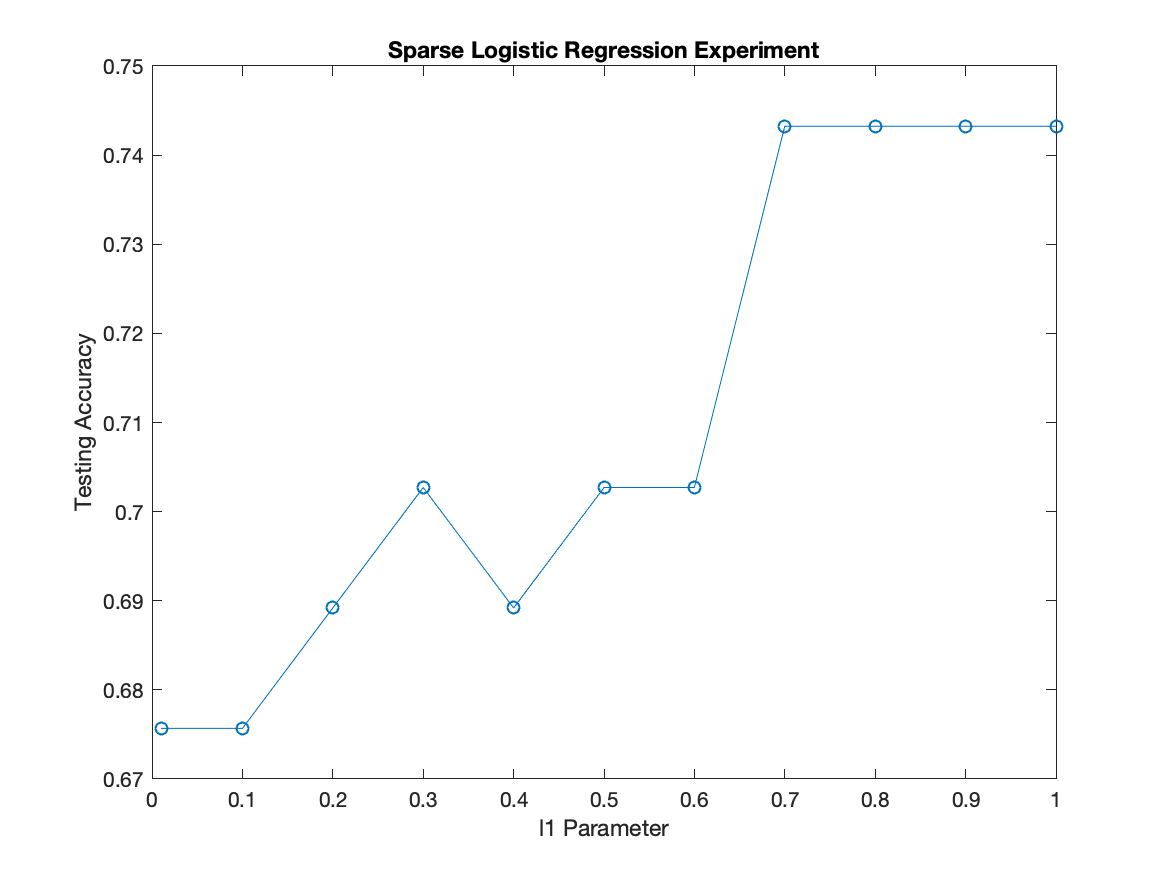
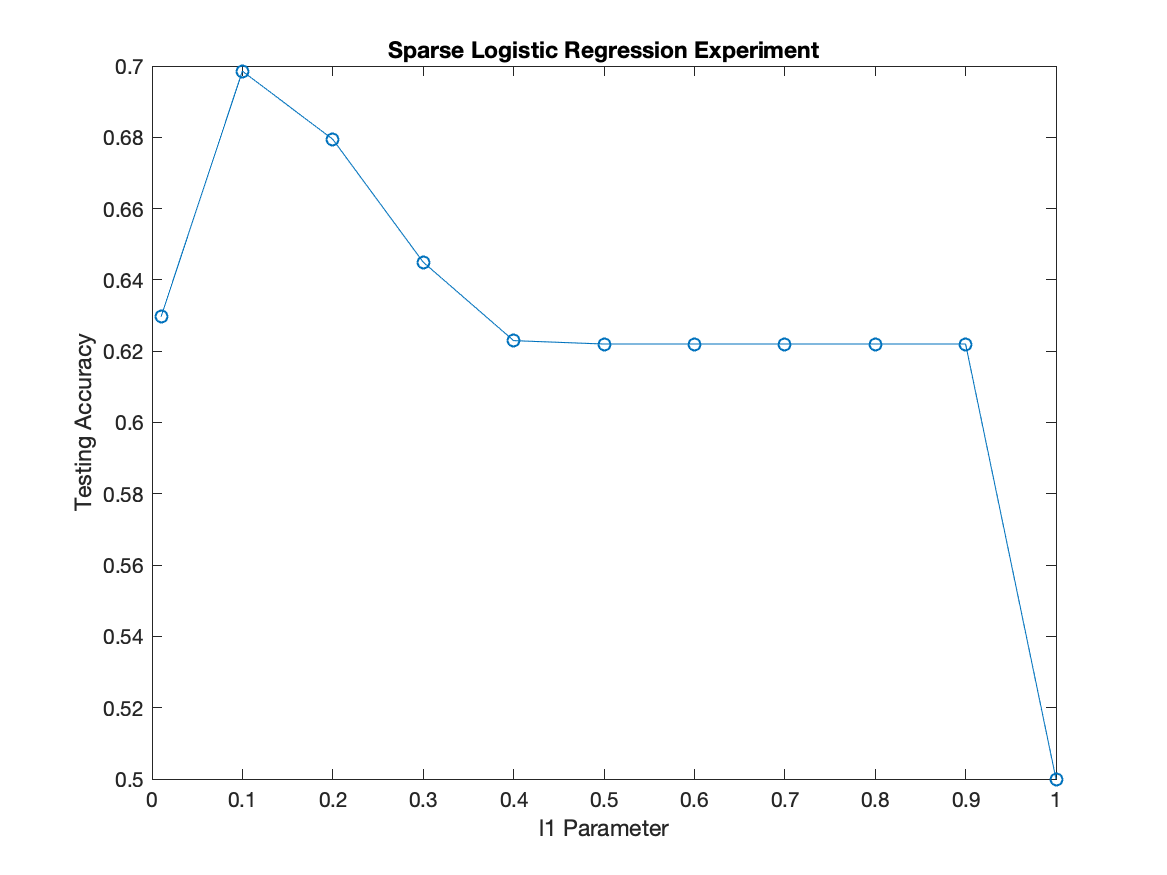
Updated problem 2.

diff --git a/problem_2.m b/problem_2.m
@@ -9,28 +9,21 @@ y_train = alz_data.y_train;
 X_test = alz_data.X_test;
 y_test = alz_data.y_test;
 parameters = [0.01, 0.1, 0.2, 0.3, 0.4, 0.5, 0.6, 0.7, 0.8, 0.9, 1];
-weights = zeros(numel(parameters),size(X_train,2));
-predictions = zeros(numel(parameters), size(X_test,1));
 
-bias_values = zeros(size(parameters));
 number_of_features = zeros(size(parameters));
-test_accuracy = zeros(size(parameters));
 all_aucs = zeros(size(parameters));
 for i = 1:numel(parameters)
     parameter = parameters(i);
     [w, bias] = logistic_l1_train(X_train, y_train, parameter);
-    bias_values(i) = bias;
-    weights(i,:) = w;
     number_of_features(i) = sum(w ~= 0);
     y_pred = (X_test * w) + bias;
     performance = classperf(y_test >= 0,y_pred >=0);
-    test_accuracy(i) = performance.CorrectRate;
     [far,gar,thres,auc] = perfcurve(y_test, y_pred, 1);
     all_aucs(i) = auc;
 end
 
 figure;
-plot(parameters, test_accuracy, 'o-');
+plot(parameters, all_aucs, 'o-');
 title('Sparse Logistic Regression Experiment');
 xlabel('l1 Parameter');
 ylabel('Testing Accuracy');
